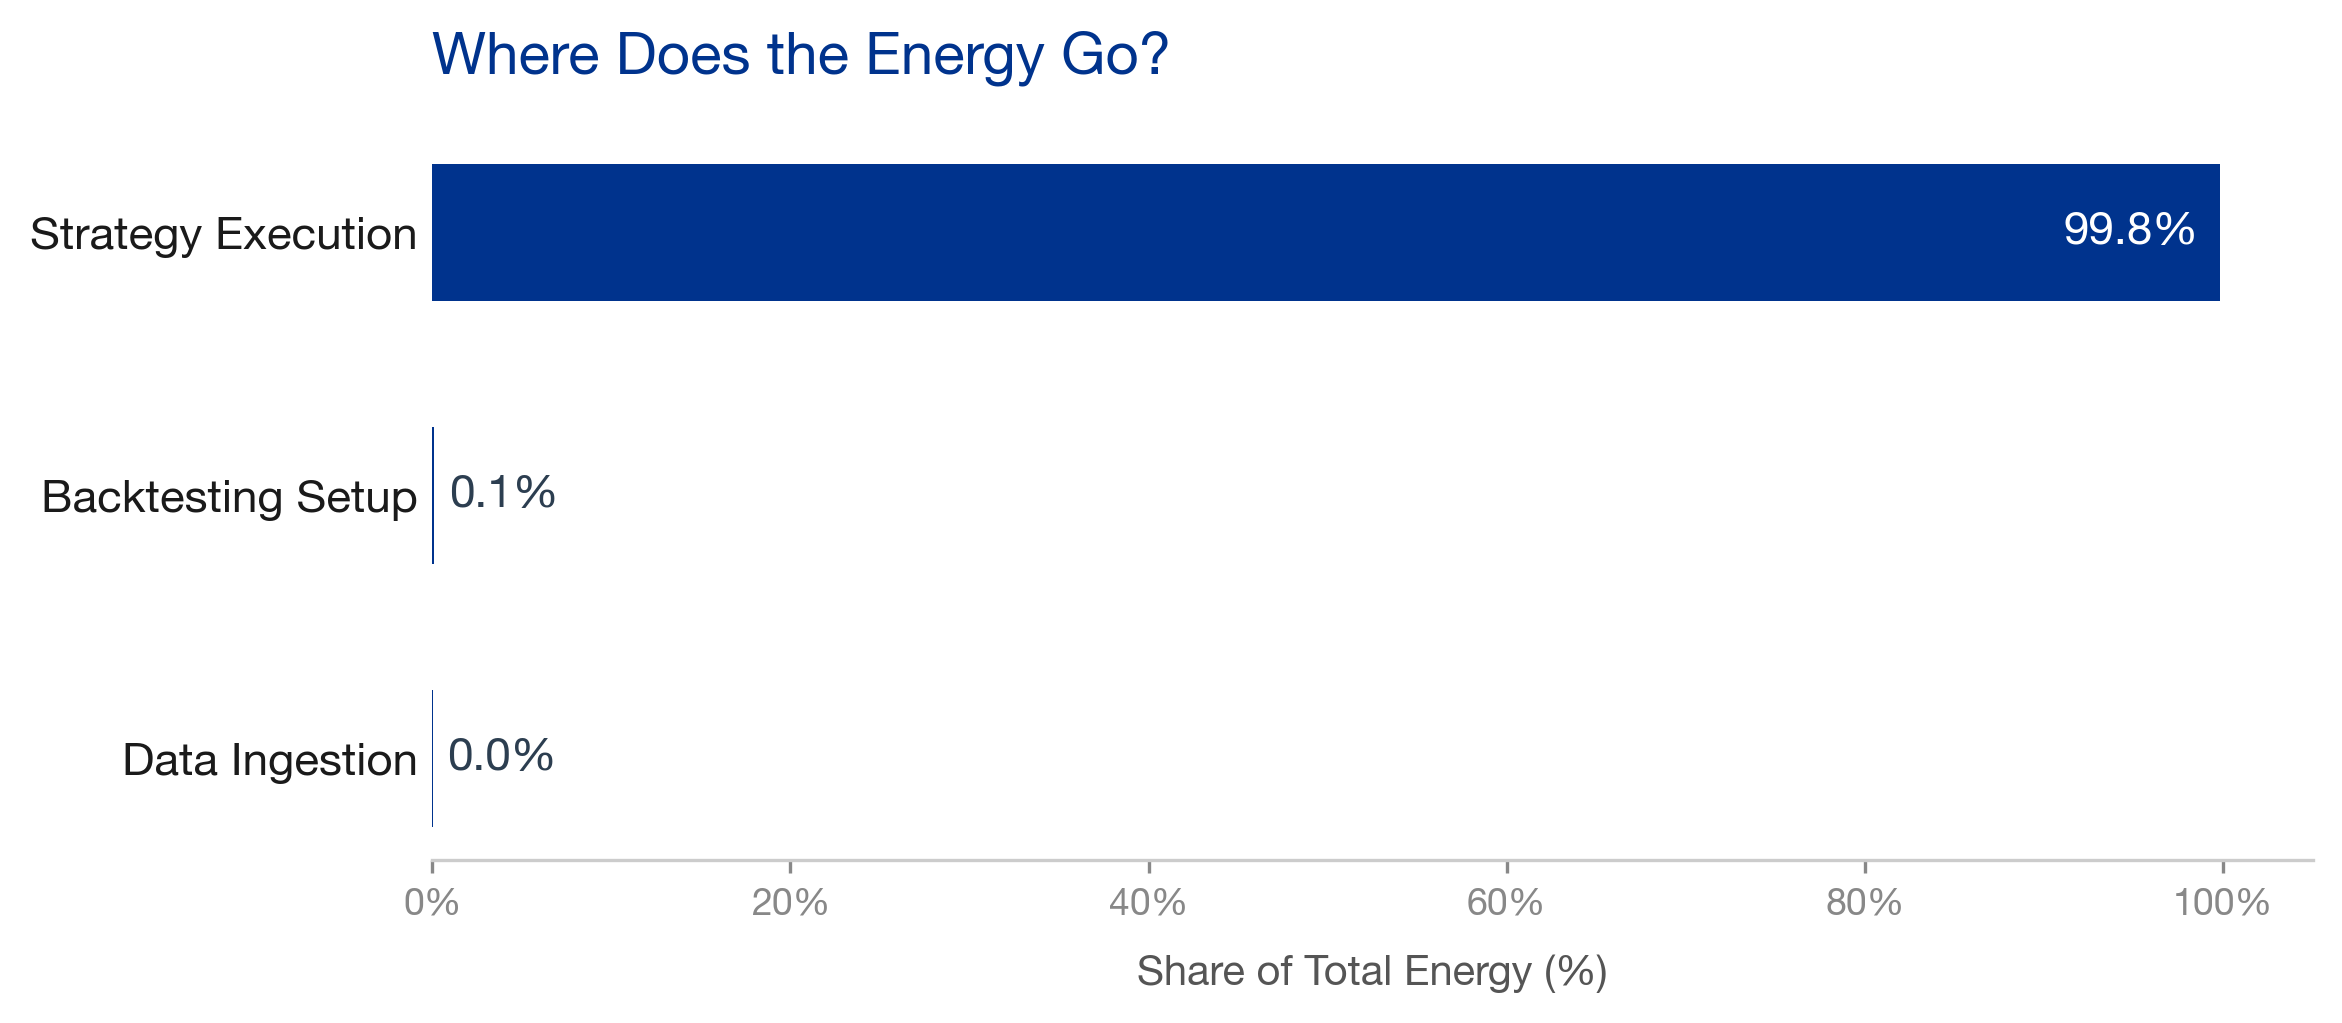
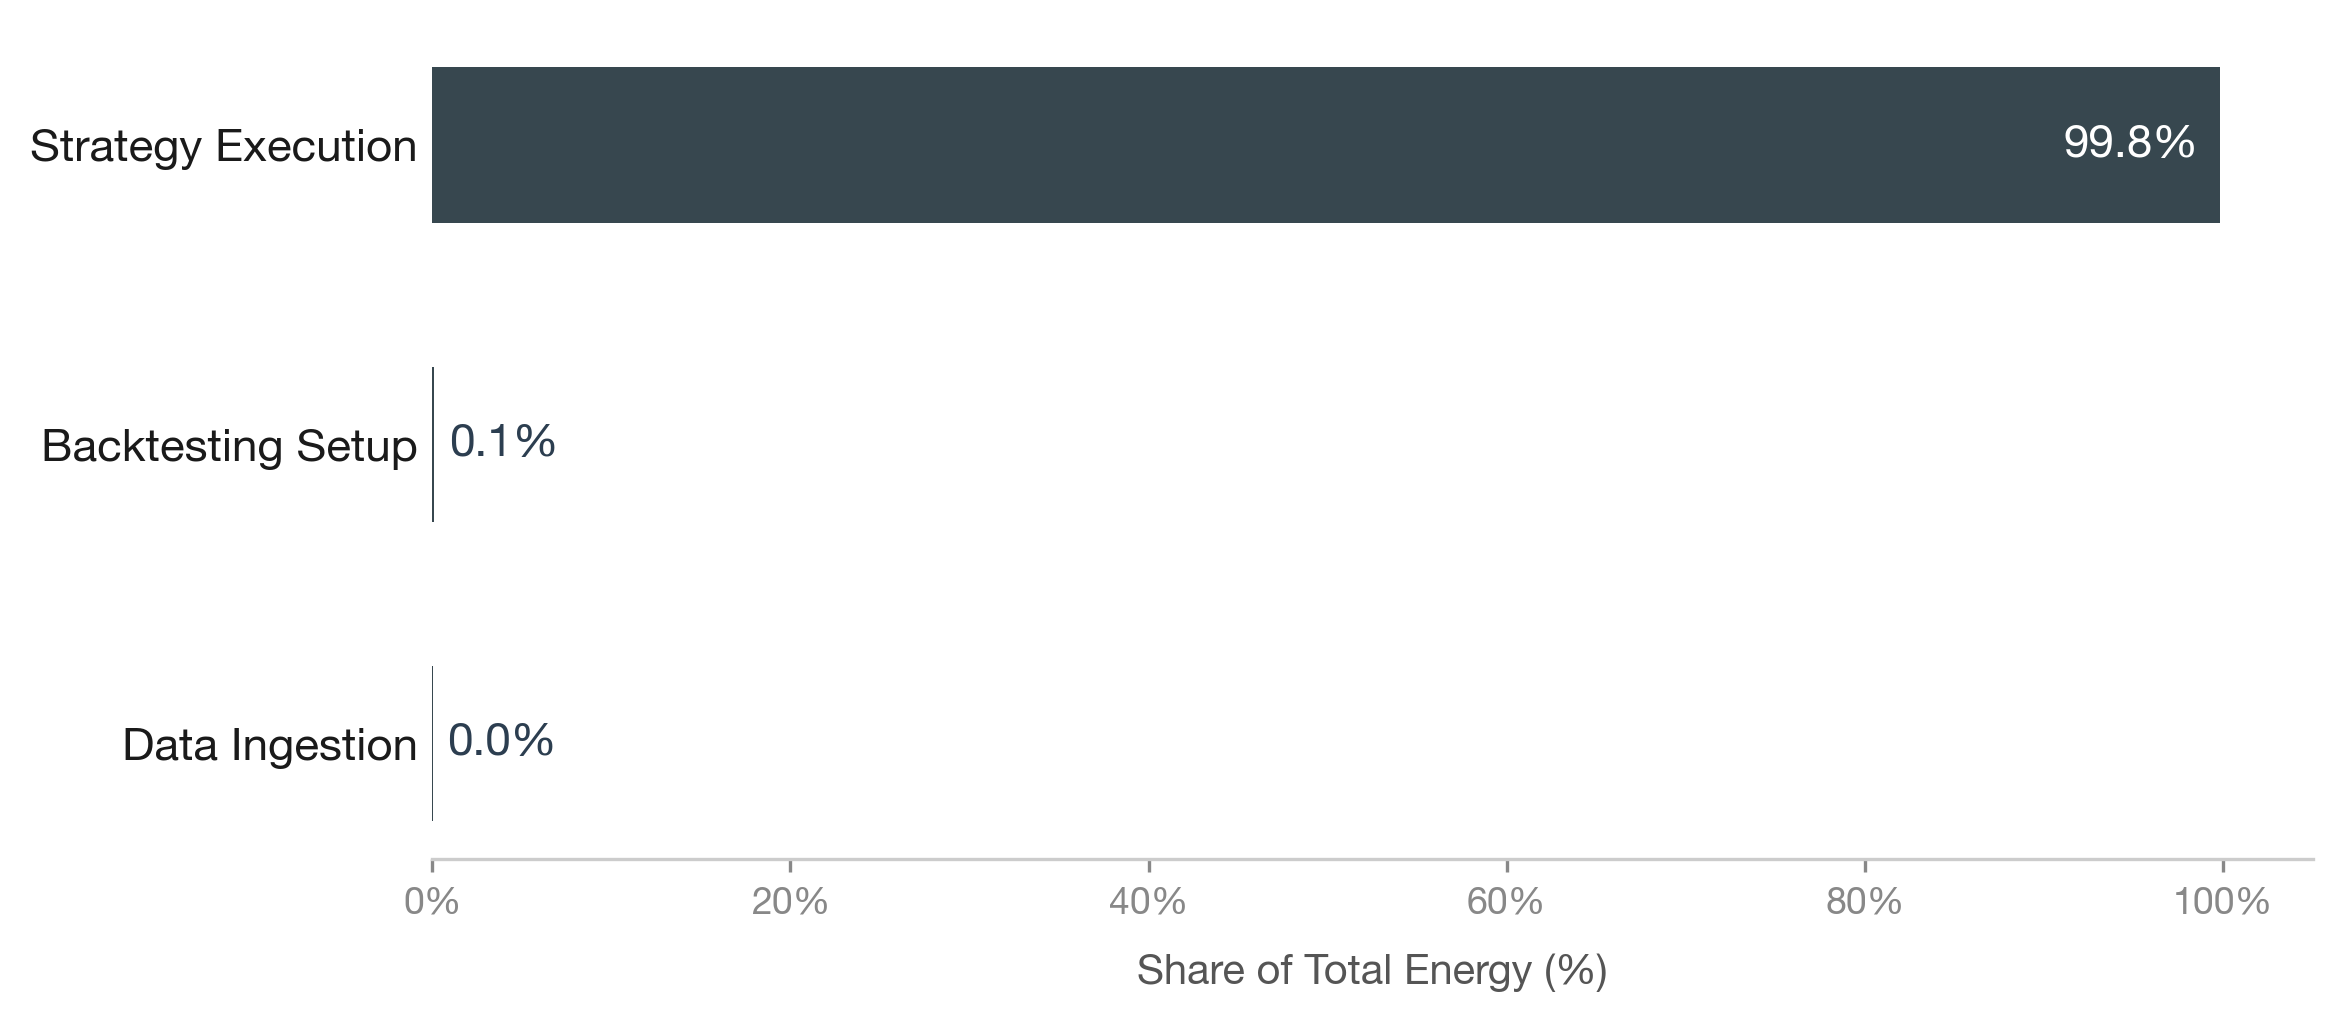
changed coloor scheme for better visibility

Changed region(s): [[0.0, 0.0303, 0.9663, 0.3033], [0.0, 0.4247, 0.2494, 0.5157], [0.0312, 0.6977, 0.2494, 0.7583]]

diff --git a/backtrader/runs/visualization.py b/backtrader/runs/visualization.py
@@ -17,7 +17,7 @@ LABEL_MAP = {
     "strategy_execution": "Strategy Execution",
 }
 
-BRAND = "#00338D"
+BRAND = "#37474F"  # dark blue-grey charcoal
 
 PALETTE = {
     "Strategy Execution": BRAND,
@@ -55,9 +55,6 @@ for bar, val in zip(bars, df["share_pct"]):
         fontweight="semibold",
         color=color,
     )
-
-ax.set_title("Where Does the Energy Go?", fontsize=14, fontweight="bold",
-             color=BRAND, pad=14, loc="left")
 
 ax.set_xlabel("Share of Total Energy (%)", fontsize=10, color="#555555", labelpad=8)
 ax.xaxis.set_major_formatter(mticker.FuncFormatter(lambda x, _: f"{x:.0f}%"))
